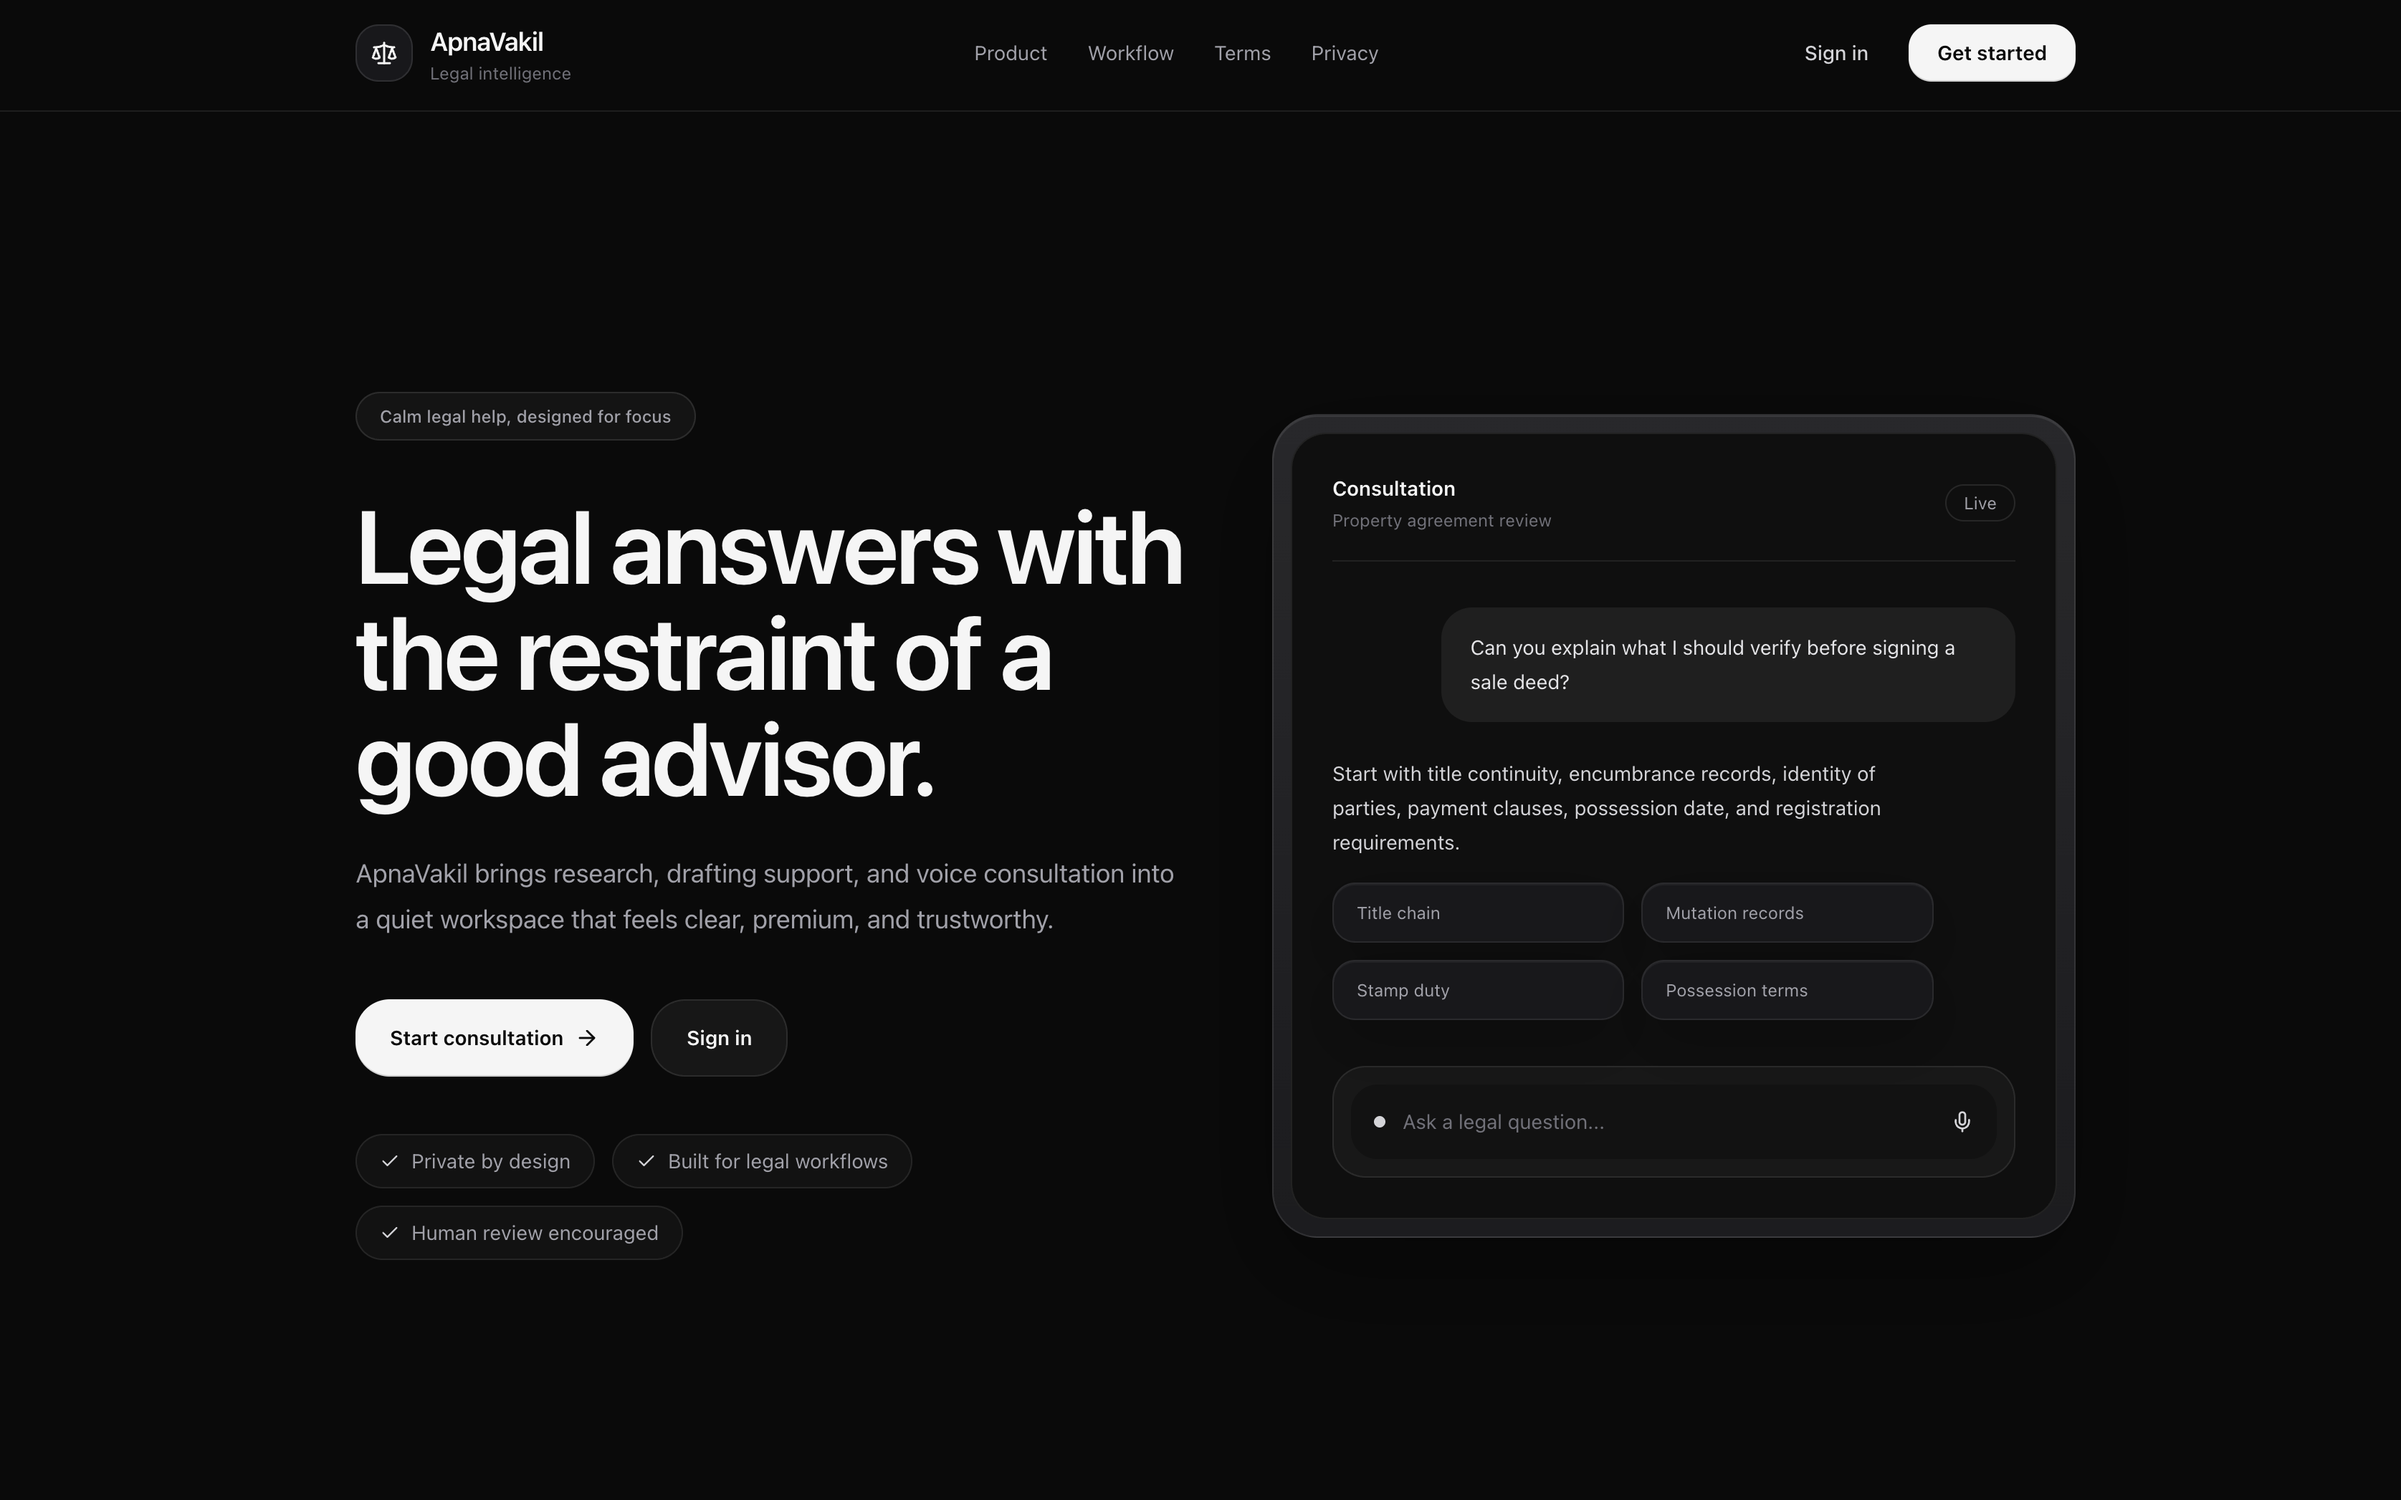
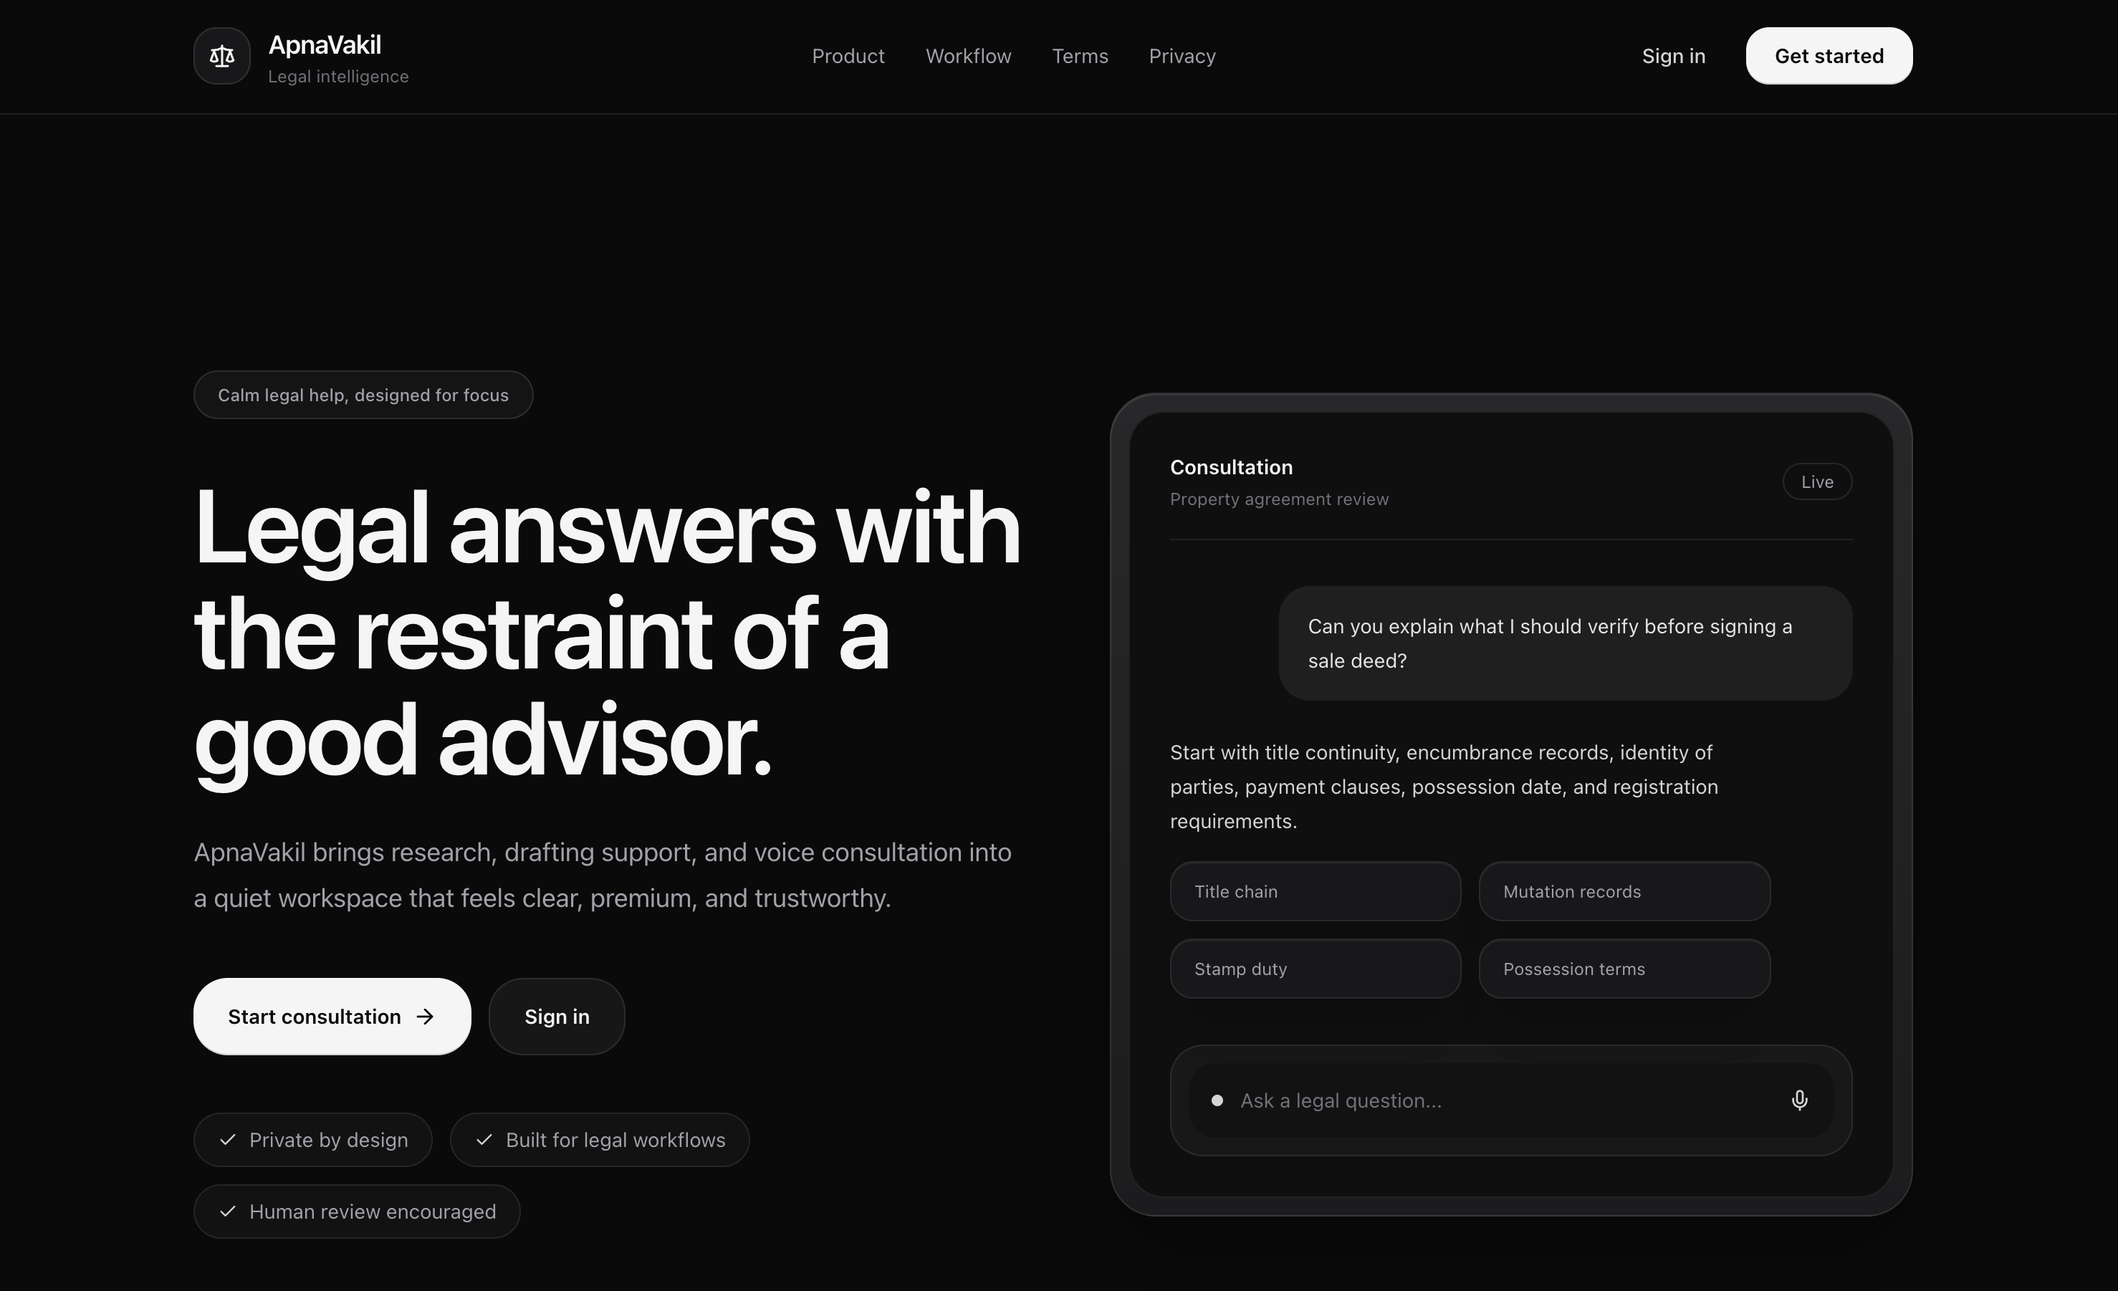
feat: added collab

diff --git a/src/data/resume.tsx b/src/data/resume.tsx
@@ -174,6 +174,67 @@ export const DATA = {
     },
   ],
   projects: [
+
+    {
+      title: "Collab",
+      href: "https://collab.plynk.in",
+      dates: "May 2026 - Jun 2026",
+      active: true,
+      description:
+        "Built a real-time collaborative whiteboard platform where multiple users can draw, annotate, and design together on a shared canvas. Features include WebSocket-based live sync, role-based access (owner/editor/viewer), project sharing via email, and persistent canvas storage in PostgreSQL. Deployed the Go backend on Docker and the Next.js frontend on Vercel.",
+      details: `Collab is a real-time collaborative whiteboard application where users can create projects, invite teammates, and work together on a shared canvas simultaneously — similar to Figma or Miro.
+
+Each user joins a project room over WebSocket. When anyone draws or makes a change on the canvas, the update is broadcast to all other connected users in real time. The canvas state is automatically saved to PostgreSQL so no work is lost even if someone closes the tab.
+
+The backend is built with Go (Gin) and manages user authentication with JWT, project CRUD, WebSocket hub for live collaboration, and role-based permissions. The frontend is a Next.js app using tldraw as the canvas engine, Zustand for state management, and server actions for all API calls.
+
+## Key Features
+
+- Real-time multi-user canvas sync over WebSocket
+- Role-based access control: owner, editor, viewer
+- Project sharing by email with permission levels
+- Automatic canvas persistence to PostgreSQL
+- Live presence indicators and connection status
+- Email verification via OTP using Resend
+- JWT-based authentication with httpOnly cookies
+- Fully responsive dashboard with project management
+- Docker-based backend deployment
+
+## Tech Stack
+
+Next.js, TypeScript, Go, Gin, PostgreSQL, Supabase, WebSocket, tldraw, Zustand, Docker, Vercel, JWT, Resend`,
+      technologies: [
+        "Next.js",
+        "TypeScript",
+        "Go",
+        "Gin",
+        "PostgreSQL",
+        "WebSocket",
+        "tldraw",
+        "Zustand",
+        "Docker",
+        "Supabase",
+      ],
+      links: [
+        {
+          type: "Website",
+          href: "https://collab.plynk.in",
+          icon: <Icons.globe className="size-3" />,
+        },
+        {
+          type: "FE",
+          href: "https://github.com/Shubham071122/collab-fe",
+          icon: <Icons.github className="size-3" />,
+        },
+        {
+          type: "BE",
+          href: "https://github.com/Shubham071122/collab",
+          icon: <Icons.github className="size-3" />,
+        },
+      ],
+      image: "/collab.png",
+      video: "",
+    },
     {
       title: "Apnavakil",
       href: "#",

diff --git a/src/data/skills.ts b/src/data/skills.ts
@@ -362,4 +362,22 @@ export const SKILLS_DATA: Record<string, SkillData> = {
     url: "https://github.com",
     category: "tool",
   },
+  websocket: {
+    name: "WebSocket",
+    icon: "https://cdn.simpleicons.org/socketdotio",
+    url: "https://developer.mozilla.org/en-US/docs/Web/API/WebSockets_API",
+    category: "tool",
+  },
+  gin: {
+    name: "Gin",
+    icon: "https://raw.githubusercontent.com/devicons/devicon/v2.17.0/icons/gin/gin-original.svg",
+    url: "https://gin-gonic.com",
+    category: "backend",
+  },
+  tldraw: {
+    name: "tldraw",
+    icon: "https://cdn.simpleicons.org/tldraw",
+    url: "https://tldraw.dev",
+    category: "frontend",
+  },
 };

diff --git a/src/components/tech-icon.tsx b/src/components/tech-icon.tsx
@@ -40,6 +40,7 @@ export const TechIcon = ({
         if (n === "github" || n === "github actions") return "github";
         if (n === "golang") return "go";
         if (n === "ollama") return "ollama";
+        if (n === "websocket" || n === "socket") return "websocket";
         return n.replace(/[\s\.]/g, "");
     };
 
